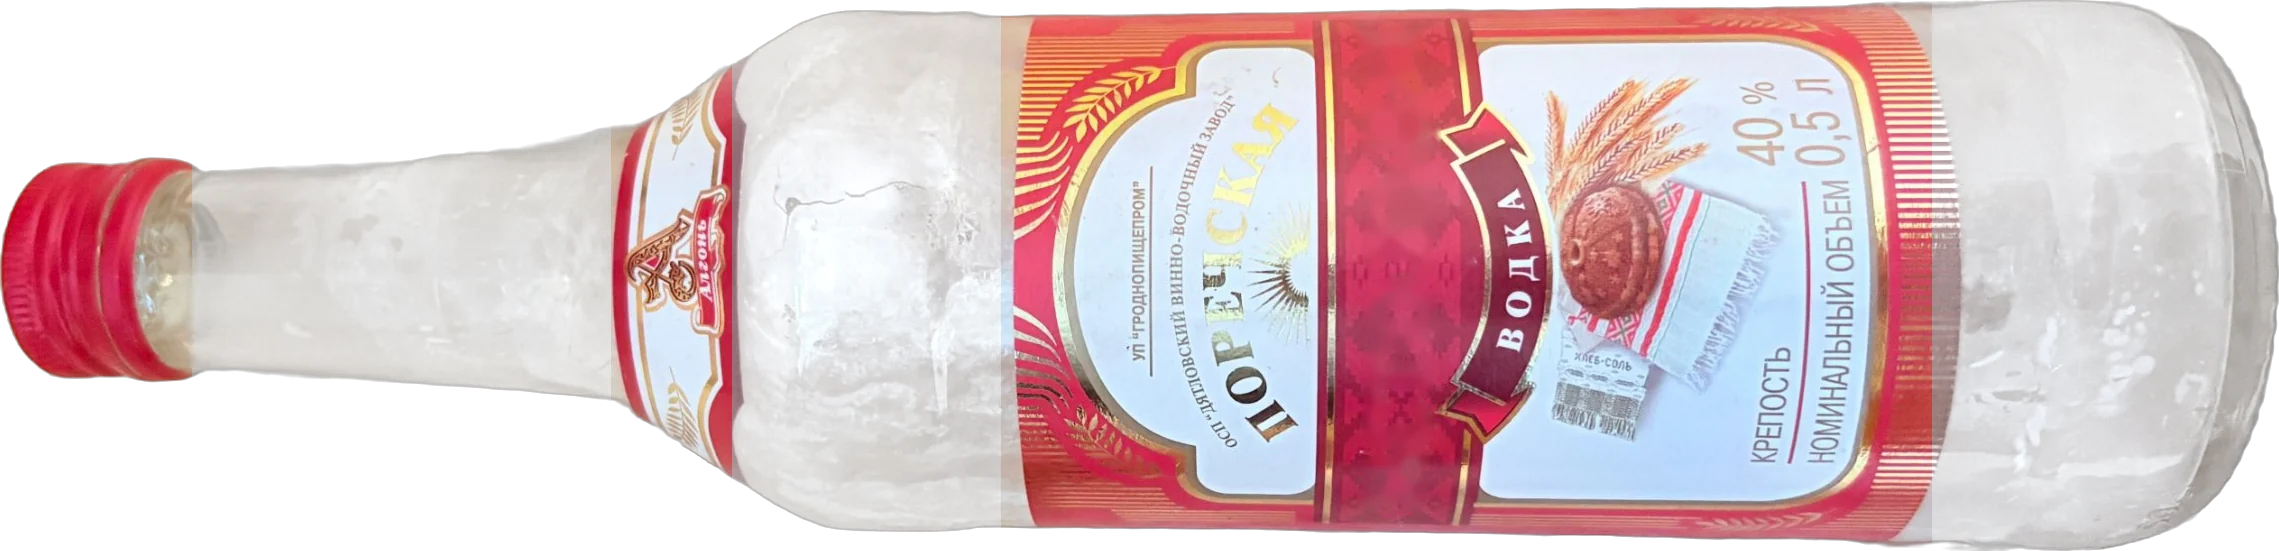
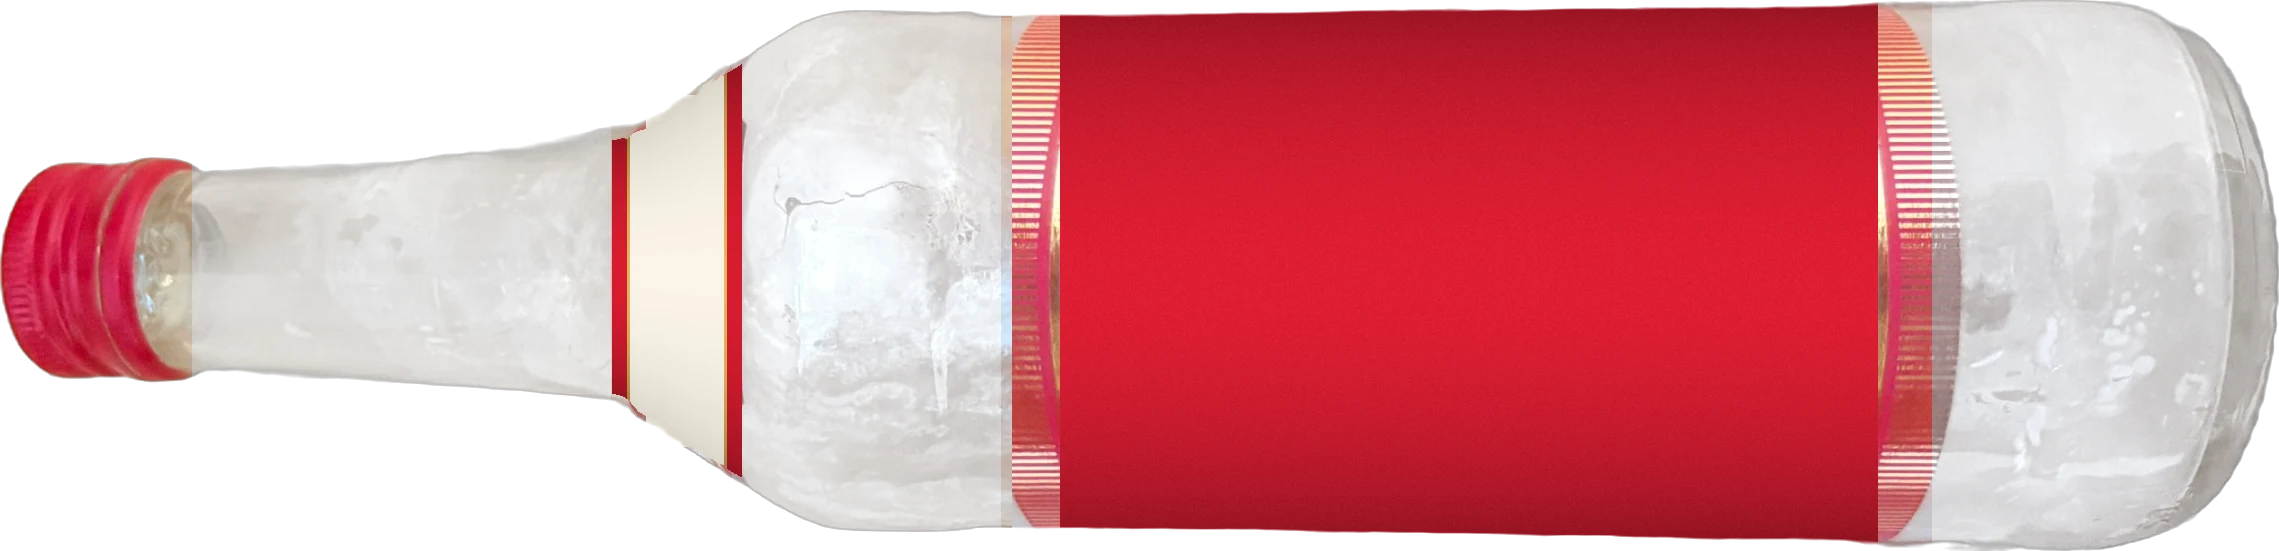
Header bottle: plain red label with menu/burger, name on the neck label
- Big label is now solid red with only the gold-striped rims kept;
  desktop menu sits on it, mobile shows a large burger there.
- Emblem removed from the neck label; IANA LEVMAN printed there.
- Hero caption: regular weight, smaller, fits one line on mobile.

Claude-Session: https://claude.ai/code/session_01FoJXEt7mBcfZua3bz27njN

diff --git a/src/styles.css b/src/styles.css
@@ -253,29 +253,28 @@
 .back-to-header:hover { background: #1d2747; color: #f6e7c8; transform: translateY(-2px); }
 .back-to-header:focus-visible { outline: 2px solid #f6e7c8; outline-offset: 4px; }
 .back-to-header svg { width: 26px; height: 26px; stroke-width: 2.5; }
-/* "IANA LEVMAN" printed where the label said ЗАСТОЛЬНАЯ: white serif, gold edge, dark-red shadow, turned with the bottle. */
+/* "IANA LEVMAN" on the small cream neck label, turned with the bottle. */
 .bottle-band-name {
-  position: absolute; left: 58.1%; width: 5.8%; top: 4%; height: 92%;
+  position: absolute; left: 27.6%; width: 4.2%; top: 20%; height: 60%;
   display: flex; align-items: center; justify-content: center;
 }
 .bottle-band-name span {
   display: block; transform: rotate(-90deg); white-space: nowrap;
-  font-family: var(--font-bottle-label); font-weight: 800; text-transform: uppercase; letter-spacing: 0.01em;
-  font-size: calc(var(--bw) * 0.0265); line-height: 1; color: #fffaf0;
-  -webkit-text-stroke: calc(var(--bw) * 0.0011) #c9973c; paint-order: stroke fill;
-  text-shadow: 0.05em 0.07em 0 #5b0f16, 0 0 0.02em #c9973c;
+  font-family: var(--font-bottle-label); font-weight: 800; text-transform: uppercase; letter-spacing: 0.02em;
+  font-size: calc(var(--bw) * 0.0165); line-height: 1; color: var(--bottle-name-ink);
 }
-.bottle-glass-nav > div { position: absolute; display: flex; align-items: center; justify-content: space-evenly; }
-.bottle-glass-neck { left: 9.5%; width: 17%; top: 30%; height: 40%; }
-.bottle-glass-shoulder { left: 33%; width: 11%; top: 18%; height: 64%; flex-direction: column; justify-content: center !important; gap: 2px; }
-.bottle-glass-base { left: 86%; width: 12%; top: 25%; height: 50%; }
+/* Menu printed on the plain red label, between its gold-striped rims. */
+.bottle-label-nav {
+  position: absolute; left: 46.5%; width: 35.9%; top: 8%; height: 84%;
+  display: flex; align-items: center; justify-content: space-evenly; gap: 6px;
+}
 .bottle-label-link {
-  font-family: var(--font-bottle-label); font-weight: 800; font-size: clamp(14px, calc(var(--bw) * 0.021), 21px); line-height: 1.2;
-  color: var(--bottle-name-ink); letter-spacing: 0.02em; text-transform: uppercase;
-  transition: opacity 180ms ease; padding: 4px 2px;
+  font-family: var(--font-bottle-label); font-weight: 800; font-size: clamp(13px, calc(var(--bw) * 0.0185), 19px); line-height: 1.2;
+  color: var(--bottle-label-ink); letter-spacing: 0.02em; text-transform: uppercase;
+  transition: opacity 180ms ease; padding: 6px 2px;
 }
-.bottle-label-link:hover { opacity: 0.7; }
-.bottle-label-link.is-active { text-decoration: underline; text-decoration-thickness: 2px; text-underline-offset: 4px; }
+.bottle-label-link:hover { opacity: 0.75; }
+.bottle-label-link.is-active { text-decoration: underline; text-decoration-thickness: 2px; text-underline-offset: 5px; }
 .bottle-burger { display: none; }
 .bottle-menu { background: var(--background); padding: 28px 20px 24px; }
 .bottle-menu .bottle-menu-link.text-xl { font-size: 20px; }
@@ -283,7 +282,7 @@
   font-family: var(--font-bottle-label); font-weight: 800; font-size: 32px; line-height: 1.3;
   color: var(--bottle-name-ink); text-transform: uppercase; padding: 6px 0;
 }
-.bottle-social { color: var(--bottle-name-ink); width: 28px; height: 32px; padding: 0; }
+.bottle-social { color: var(--bottle-label-ink); width: 28px; height: 32px; padding: 0; }
 .bottle-social svg { width: 22px; height: 22px; }
 .acquire-bottle {
   position: relative; display: block; width: 100%; max-width: 380px;
@@ -316,12 +315,12 @@
 }
 @media (max-width: 767px) {
   .bottle-header { padding-top: 8px; height: calc(var(--bw) * 0.24177 + 8px); }
-  .bottle-glass-nav { display: none; }
+  .bottle-label-nav { display: none; }
   .bottle-burger {
-    display: inline-flex; position: absolute; left: 10%; width: 16%; top: 22%; height: 56%;
-    color: var(--bottle-name-ink);
+    display: inline-flex; position: absolute; left: 46.5%; width: 35.9%; top: 8%; height: 84%;
+    color: var(--bottle-label-ink);
   }
-  .bottle-burger svg { width: 28px; height: 28px; stroke-width: 2.5; }
+  .bottle-burger svg { width: min(56px, calc(var(--bw) * 0.16)); height: min(56px, calc(var(--bw) * 0.16)); stroke-width: 2.5; }
 }
 
 /* Legacy liquid treatment available for other glass surfaces. */

diff --git a/src/components/bottle-header.tsx b/src/components/bottle-header.tsx
@@ -25,7 +25,7 @@ function NavItem({ to, label, exact, className = "bottle-label-link", onClick }:
 const INSTAGRAM = "https://www.instagram.com/ia_levman?evlk=MWZsbjZrbmF6d3ZvaQ%3D%3D&utm_source=qr";
 const TELEGRAM = "https://t.me/ialevman";
 
-/** The real "Zastolnaya" bottle lying on its side: the name is printed in the label's red band, menu lettering sits on the glass. */
+/** The real "Zastolnaya" bottle lying on its side: the name sits on the small neck label, the menu (or burger on mobile) on the plain red label. */
 export function BottleHeader() {
   const [hidden, setHidden] = useState(false);
   const [menuOpen, setMenuOpen] = useState(false);
@@ -64,13 +64,10 @@ export function BottleHeader() {
         <Link to="/" aria-label={ARTIST} className="bottle-band-name pointer-events-auto">
           <span>{ARTIST}</span>
         </Link>
-        <nav aria-label="Main navigation" className="bottle-glass-nav pointer-events-auto">
-          <div className="bottle-glass-neck">{NAV.slice(0, 2).map((n) => <NavItem key={n.to} {...n} />)}</div>
-          <div className="bottle-glass-shoulder">{NAV.slice(2).map((n) => <NavItem key={n.to} {...n} />)}</div>
-          <div className="bottle-glass-base">
-            <Button asChild variant="lettering" size="icon" className="bottle-social"><a href={INSTAGRAM} target="_blank" rel="noopener noreferrer" aria-label="Instagram" title="Instagram"><Instagram aria-hidden /></a></Button>
-            <Button asChild variant="lettering" size="icon" className="bottle-social"><a href={TELEGRAM} target="_blank" rel="noopener noreferrer" aria-label="Telegram" title="Telegram"><Send aria-hidden /></a></Button>
-          </div>
+        <nav aria-label="Main navigation" className="bottle-label-nav pointer-events-auto">
+          {NAV.map((n) => <NavItem key={n.to} {...n} />)}
+          <Button asChild variant="lettering" size="icon" className="bottle-social"><a href={INSTAGRAM} target="_blank" rel="noopener noreferrer" aria-label="Instagram" title="Instagram"><Instagram aria-hidden /></a></Button>
+          <Button asChild variant="lettering" size="icon" className="bottle-social"><a href={TELEGRAM} target="_blank" rel="noopener noreferrer" aria-label="Telegram" title="Telegram"><Send aria-hidden /></a></Button>
         </nav>
         <Sheet open={menuOpen} onOpenChange={setMenuOpen}>
           <SheetTrigger asChild>

diff --git a/src/routes/index.tsx b/src/routes/index.tsx
@@ -30,7 +30,7 @@ function Index() {
   return (
     <div>
       <div className="mt-6 md:mt-10"><HeroVideo /></div>
-      <p className="gallery-lettering mx-auto mt-6 max-w-6xl px-5 text-center text-lg">
+      <p className="mx-auto mt-4 max-w-6xl px-5 text-center font-normal text-sm md:text-base" style={{ fontFamily: "var(--font-bottle-label)" }}>
         Video performance: Mirror in the Mirror, 2026
       </p>
 
